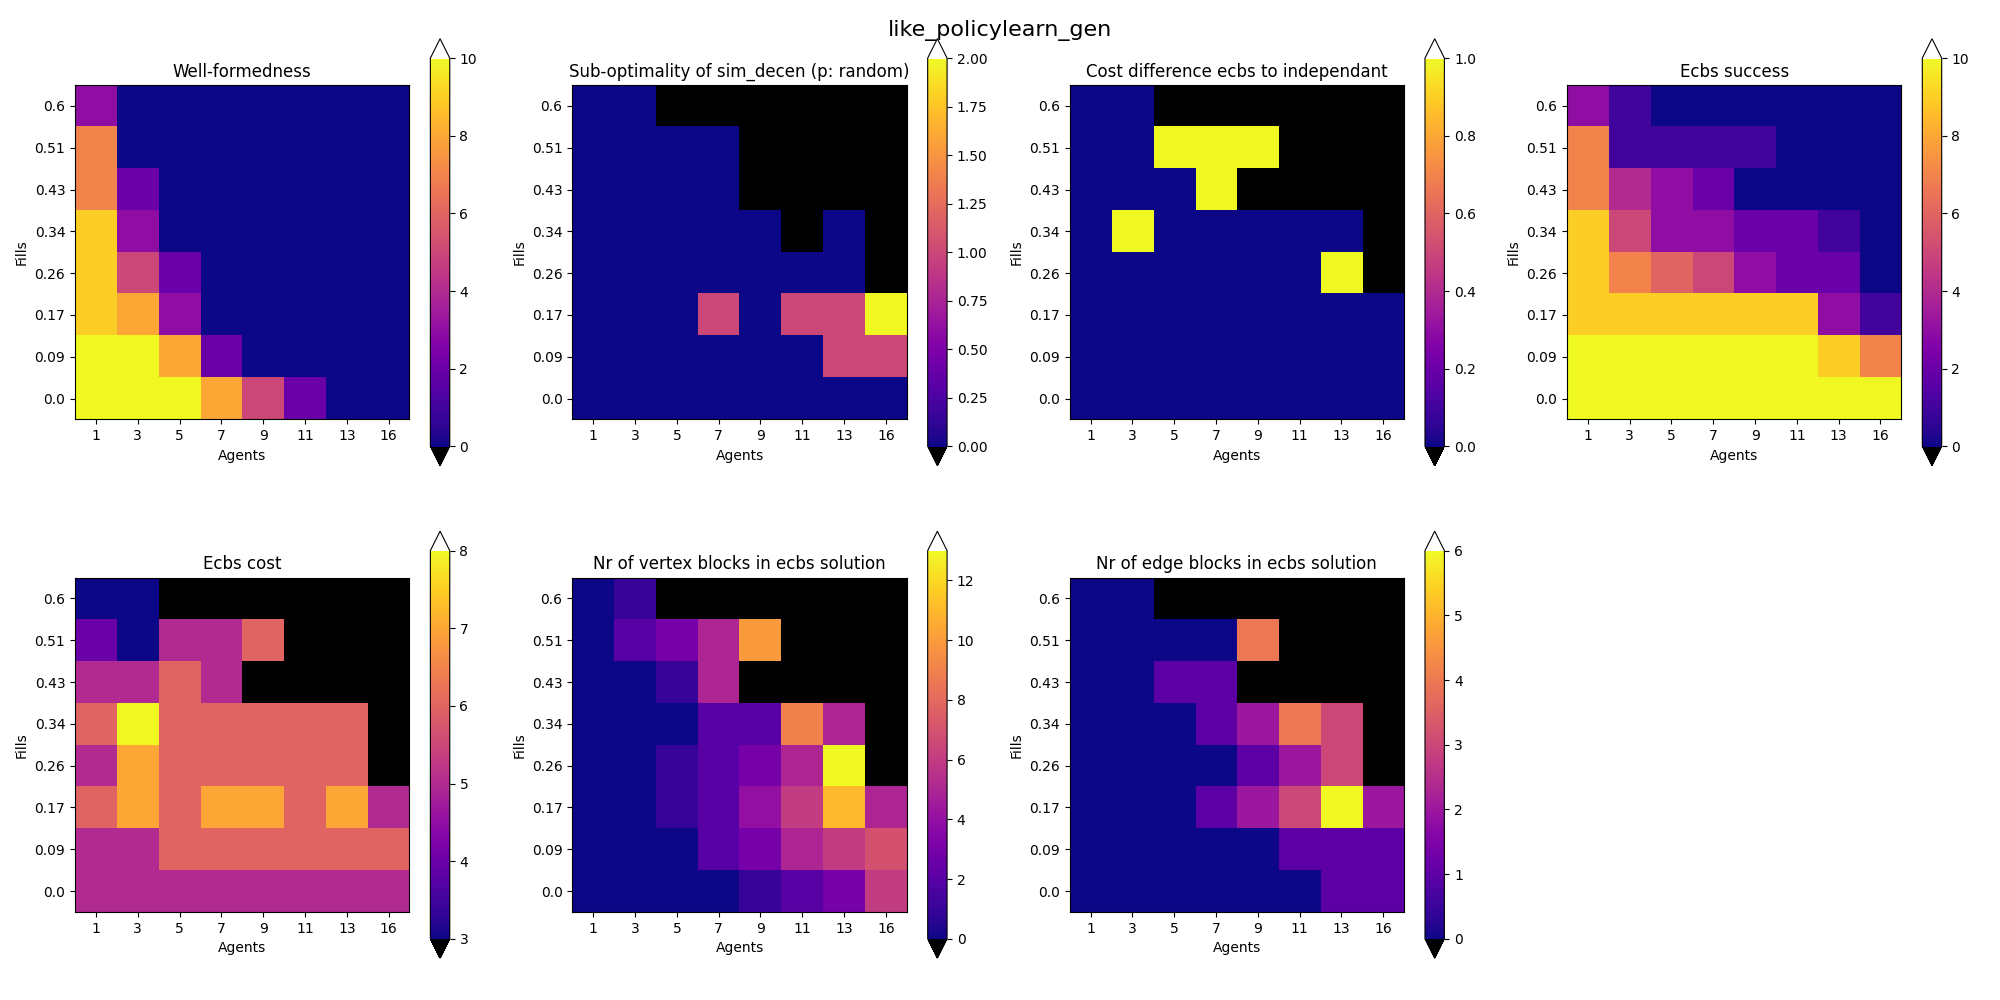
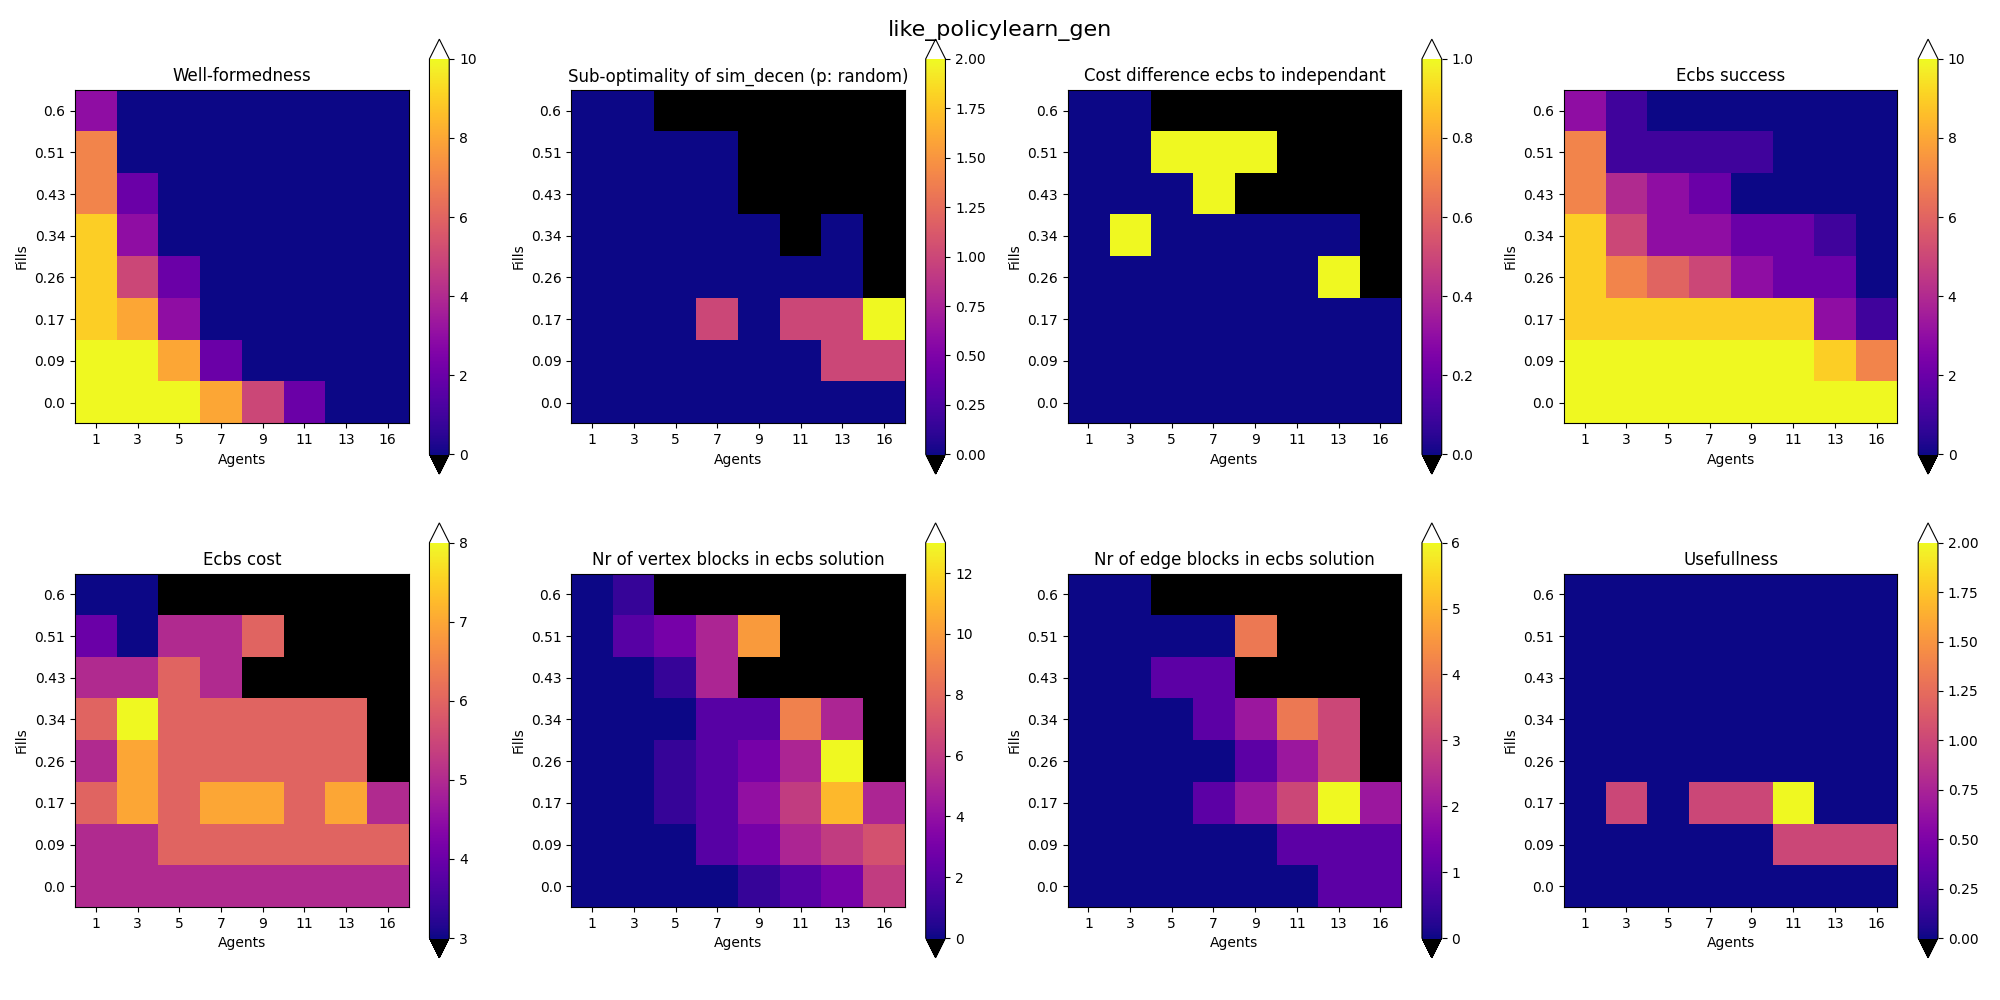
trying to judge usefullness

diff --git a/scenarios/main_eval.py b/scenarios/main_eval.py
@@ -100,21 +100,23 @@ def main():
         all_results[str(gen)] = {}
         results = all_results[str(gen)]
 
-        # save results here first plot
+        # save results here
+        # first plot row
         results["well_formed"] = np.zeros([n_fills, n_n_agentss])
         results["diff_indep"] = np.full(
             [n_runs, n_fills, n_n_agentss], INVALID, dtype=np.float)
         results["diff_sim_decen"] = np.full(
             [n_runs, n_fills, n_n_agentss], INVALID, dtype=np.float)
-
-        # second plot ecbs
         results["ecbs_success"] = np.zeros([n_fills, n_n_agentss])
+        # second plot row
         results["ecbs_cost"] = np.full(
             [n_runs, n_fills, n_n_agentss], INVALID, dtype=np.float)
         results["ecbs_vertex_blocks"] = np.full(
             [n_runs, n_fills, n_n_agentss], INVALID, dtype=np.float)
         results["ecbs_edge_blocks"] = np.full(
             [n_runs, n_fills, n_n_agentss], INVALID, dtype=np.float)
+        results["usefullness"] = np.zeros(
+            [n_runs, n_fills, n_n_agentss], dtype=np.float)
 
     t = time.time()
     i = 0
@@ -159,6 +161,8 @@ def main():
                         results["diff_indep"][i_r, i_f, i_a] = (
                             results["ecbs_cost"][i_r, i_f, i_a] - cost_indep
                         )
+                        results["usefullness"][i_r, i_f,
+                                               i_a] += results["diff_indep"][i_r, i_f, i_a]
                 # how bad are the costs with sim decentralized random .........
                 if results["ecbs_cost"][i_r, i_f, i_a] != INVALID:
                     cost_decen = cost_sim_decentralized_random(
@@ -167,6 +171,8 @@ def main():
                         results["diff_sim_decen"][i_r, i_f, i_a] = (
                             cost_decen - results["ecbs_cost"][i_r, i_f, i_a]
                         )
+                        results["usefullness"][i_r, i_f,
+                                               i_a] += results["diff_sim_decen"][i_r, i_f, i_a]
     elapsed_time = time.time() - t
     print("elapsed time: %.3fs" % elapsed_time)
 
@@ -179,14 +185,16 @@ def main():
              results["ecbs_success"],
              results["ecbs_cost"],
              results["ecbs_vertex_blocks"],
-             results["ecbs_edge_blocks"]],
+             results["ecbs_edge_blocks"],
+             results["usefullness"]],
             ["Well-formedness",
              "Sub-optimality of sim_decen (p: random)",
              "Cost difference ecbs to independant",
              "Ecbs success",
              "Ecbs cost",
              "Nr of vertex blocks in ecbs solution",
-             "Nr of edge blocks in ecbs solution"],
+             "Nr of edge blocks in ecbs solution",
+             "Usefullness"],
             generator=gen,
             n_agentss=n_agentss,
             fills=fills
